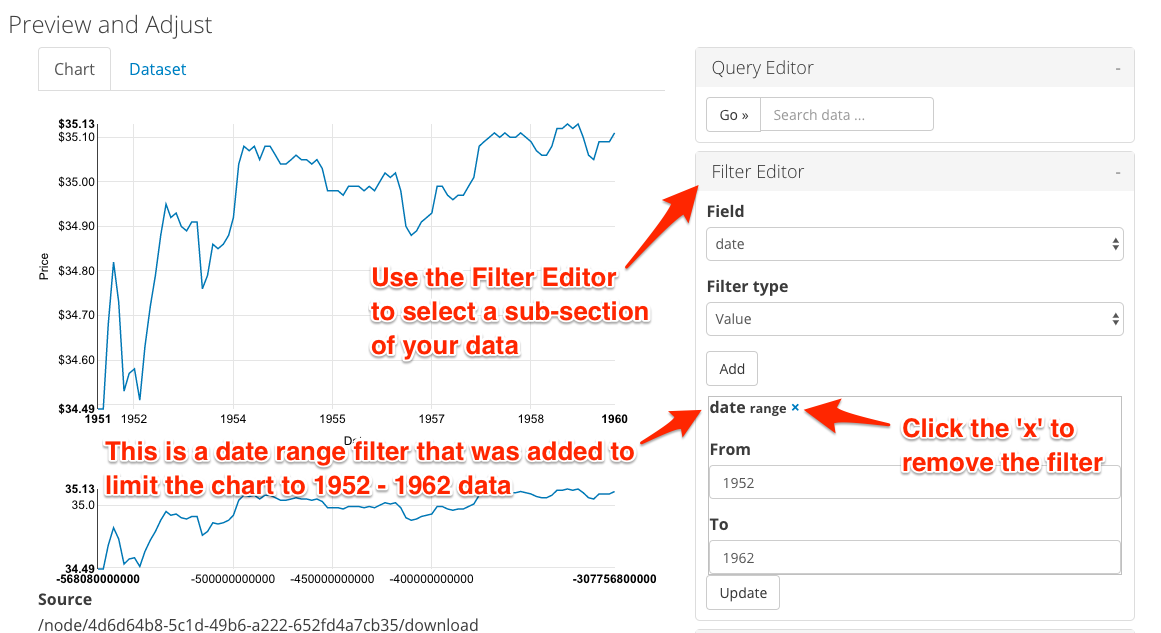
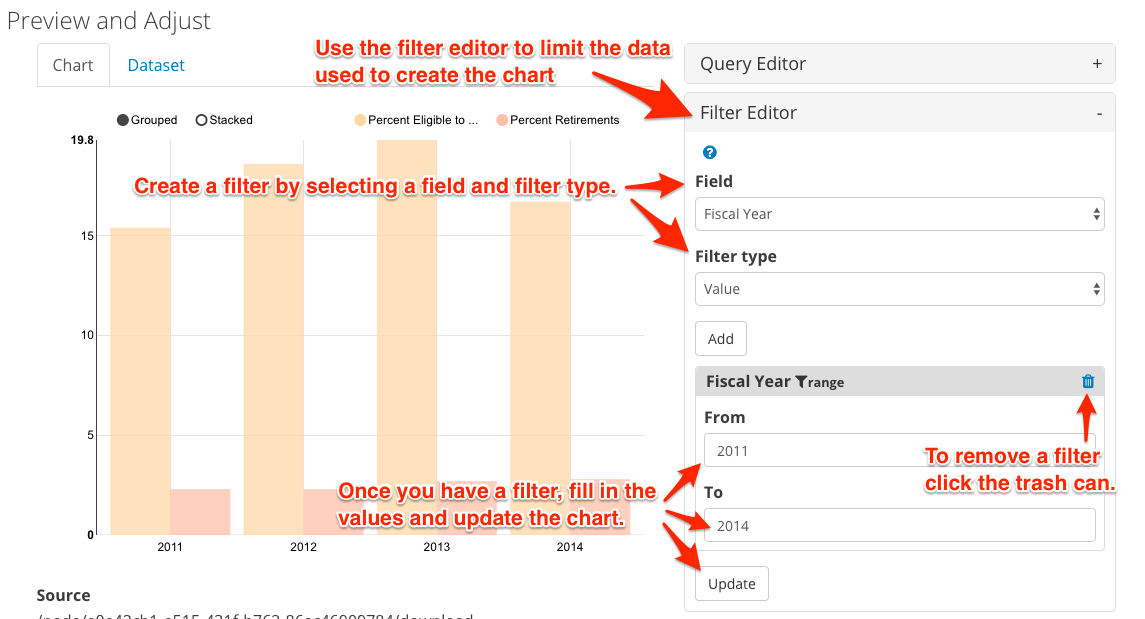
Update chart documentation

diff --git a/docs/components/visualizations/visualization_entity/chart.rst b/docs/components/visualizations/visualization_entity/chart.rst
@@ -19,12 +19,15 @@ Valid source data include:
 
 Step Two - Define Variables
 ****************************
-Choose a single *x-field* and one or more *y-fields* (series) for the visualization.
+- **Series:** Add all the columns you would like to plot along the y-axis, the **value** axis. A collection of related values is what makes up a 'series'.
+- **X-Field:** Choose a single column for the x-axis, the **category** axis.
+- **X-Field Data Type:** The data type will be auto-detected but if you see issues you can manually select the data type here.
 
-.. image:: images/chart-step-2.png
+.. image:: images/chart-define-variables.png
 
 Step Three - Choose Chart Type
 *******************************
+Select the chart type that will best represent your data.
 **NOTE**: X and Y Axis Fields are not supported by the *Pie Chart* type.
 
 .. image:: images/chart-step-3.png
@@ -32,8 +35,9 @@ Step Three - Choose Chart Type
 Step Four - Preview and Adjust
 *******************************
 You can adjust colors, margins, include a goal, labels, tick values, and more.
+Click the question mark icons if you need help understanding the configuration options.
 
-.. image:: images/chart-step-4.png
+.. image:: images/chart-configuration.png
 
 Query Editor
 ****************************
@@ -44,14 +48,17 @@ Click the '+' on the query editor to add a query parameter to specify the data u
 Filter Editor
 ****************************
 Click the '+' on the filter editor to add one or more filters to limit the data used for the chart.
-Multiple filters can be applied to data, the operator is 'OR'.
+Multiple filters will be applied with the AND operator.
 
-* Select the field you would like to filter by.
-* Select the type of filter (value, range, geo distance)
-* Click **Add**
-* Fill in the fields to complete the filter.
+1. Create a filter
+  * Select the field you would like to filter by.
+  * Select filter type: Select Value to filter by strings (labels), select Range to filter by numerical values, and select Geo distance to filter by geographical data.
+  * Click **Add**
+2. Configure the filter
+  * Fill in the fields to complete the filter.
+  * Click **Update** to reload the chart.
 
-To delete a filter, click the 'x' next to the filter name.
+To delete a filter, click the trash can icon next to the filter name.
 
 .. image:: images/chart-filter-editor.png
 
@@ -64,19 +71,21 @@ X Axis
 * **Axis Label**  will provide a custom label for the x axis. 
 * **Note:** Axis labels do not display for Pie Charts.
 * **Label rotation** will change angle of label values.
-* **Tick Values** with **step value** will update the number of ticks for the X axis. **NOTE:** If the range set for tick values is smaller than the range of complete data represented, the chart will be abbreviated.
+* **Tick Values** Enter a numerical range to set the start and end values to display. 
+* **Step**: Use the Step field to define the value between each tick within the range. **NOTE:** If the range set for tick values is smaller than the range of complete data represented, the chart will be abbreviated.
 
 Y Axis
 *****************
 * **Axis Label** Provides a custom label for the y axis. 
 * **Note:** Axis labels do not display for Pie Charts. 
-* Adjust the *distance* field until Label is visible on the chart.
-* Adjust **Tick Values** with **step value** to change the number of ticks for the Y axis. **NOTE:** If the range set for tick values is smaller than the range of complete data represented, the chart will be abbreviated.
+* Adjust the *distance* field if your axis label overlaps the y-axis data labels. You can move the label left with positive values, and right with negative values. You may need to adjust the left margin of the chart as well.
+* **Tick Values** Enter a numerical range to set the start and end values to display. 
+* **Step**: Use the Step field to define the value between each tick within the range. **NOTE:** If the range set for tick values is smaller than the range of complete data represented, the chart will be abbreviated.
 
 General
 *****************
-:Color: Set the color the chart is drawn in. Use either a `HEX color code <http://www.w3schools.com/tags/ref_colorpicker.asp>`_ or a `valid css color name <http://www.w3schools.com/cssref/css_colornames.asp>`_
-:Transition Time: Time in ms it takes for graph to animate.
+:Color: Set the color the chart is drawn in. Use either a `HEX color code <http://www.w3schools.com/tags/ref_colorpicker.asp>`_ or a `valid css color name <http://www.w3schools.com/cssref/css_colornames.asp>`_ Separate multiple colors with commas.
+:Transition Time: Time in ms it takes for graph to animate when loading or updating.
 :Goal: Overlay a goal or target line on the chart.
 :Margin: Enter value of margin in the order: *top, right, bottom, left*
 :Show Title: Display the title you entered on step 1.
